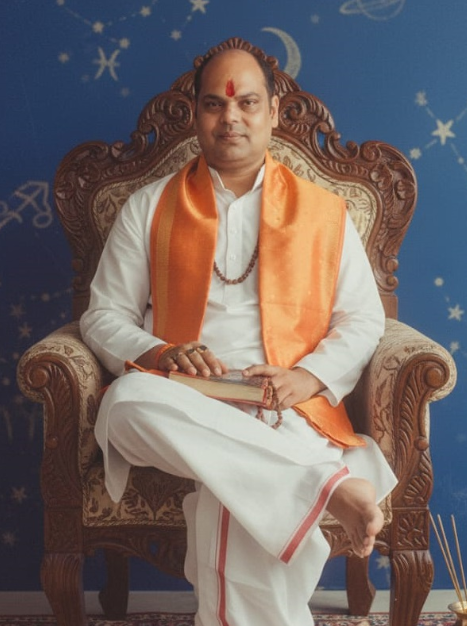
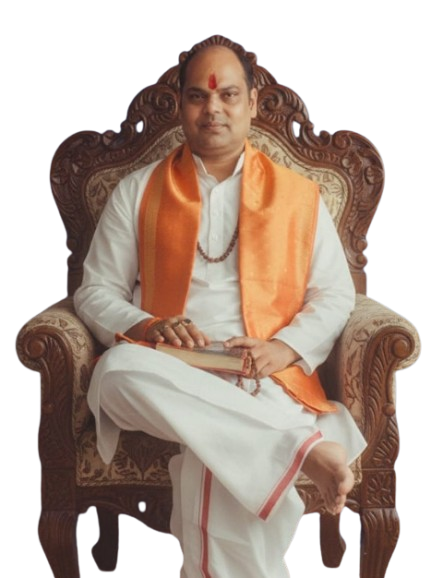
Configure home screen to use the new non-circular hero-image portrait

diff --git a/src/pages/Home.css b/src/pages/Home.css
@@ -66,12 +66,10 @@
 
 .hero-image {
   width: 575px;
-  height: 575px;
-  object-fit: cover;
-  border-radius: 50%;
+  height: auto;
+  max-height: 600px;
+  object-fit: contain;
   z-index: 1;
-  box-shadow: 10px 10px 0px rgba(26, 20, 0, 1);
-  border: 2px solid var(--border);
 }
 
 /* New Services Section */
@@ -337,7 +335,7 @@
   }
   .hero-image {
     width: 475px;
-    height: 475px;
+    height: auto;
   }
   .hero-content {
     margin: 0 auto;
@@ -374,7 +372,7 @@
   }
   .hero-image {
     width: 375px;
-    height: 375px;
+    height: auto;
   }
   .hero-actions {
     flex-direction: column;

diff --git a/src/pages/Home.jsx b/src/pages/Home.jsx
@@ -213,7 +213,7 @@ const Home = () => {
             </div>
           </div>
           <div className="hero-image-wrapper">
-            <img src="/admin-photo.png" alt="Astro Dilip Sharma" className="hero-image" />
+            <img src={heroImg} alt="Astro Dilip Sharma" className="hero-image" />
           </div>
         </div>
       </section>